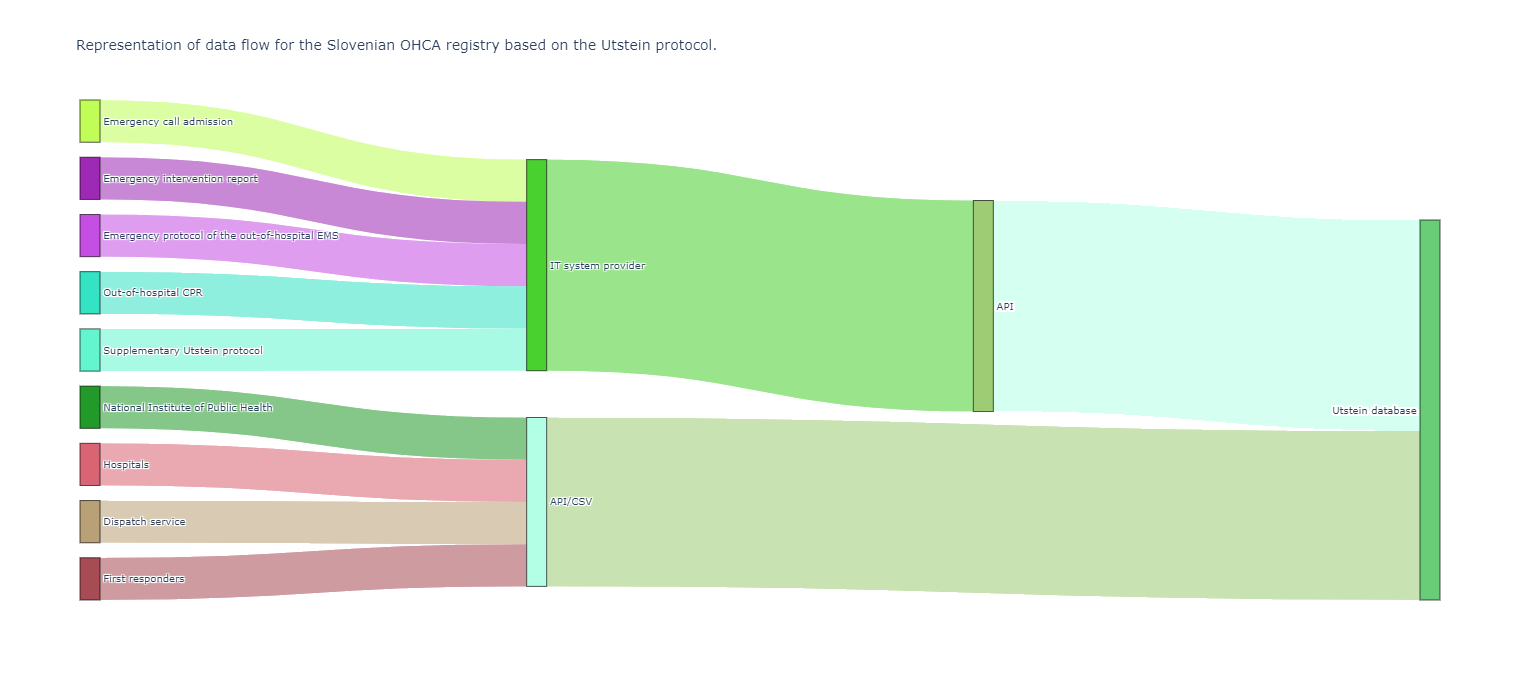
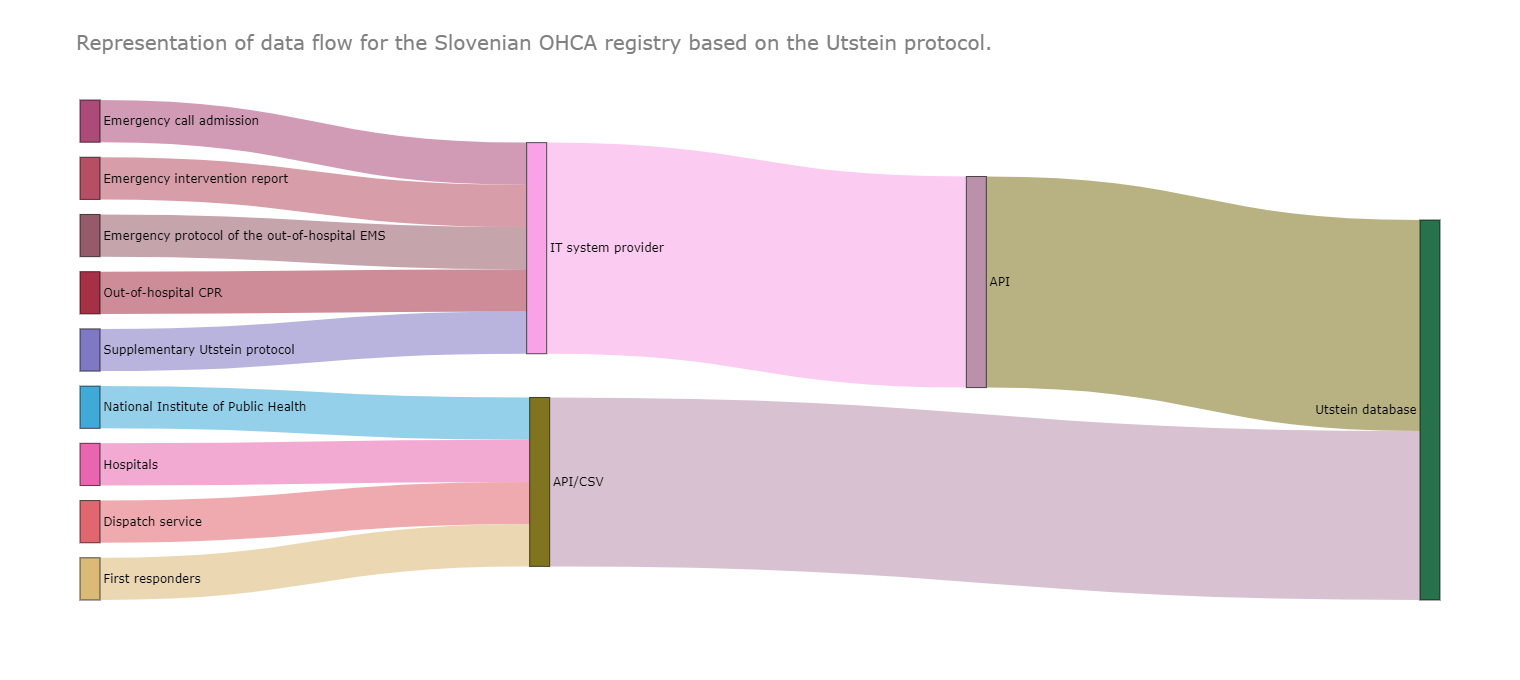
Last commits regarding data flow diagram (for now)

diff --git a/data/main_data_flow.py b/data/main_data_flow.py
@@ -18,21 +18,24 @@ comp = "IT system provider" #"Computel"
 api = "API"
 api_csv = "API/CSV"
 db = "Utstein database"
+title_text = "Representation of data flow for the Slovenian OHCA registry based on the Utstein protocol."
+
 
 # Names in Slovene
-# si = "Sprejem intervencij" #"sprejem intervencij"
-# pni = "Protokol nujne intervencije"  #"poročilo/protokol nujne intervencije"
-# pnrv = "Protokol nujnega reševalnega vozila" # "protokol nujnega reševalnega vozila"
-# ppo = "Protokol predbolnišničnega oživljanja" #"predbolnišnično oživljanje"
-# utst = "Dodatni protokol Utstein"
-# nijz = "NIJZ" #"NIJZ (v primeru smrti)"
-# hosp = "Bolnišnice" # Večinoma v obliki protokola triaže,statusa/anamneze/rezultatov diagnostike in odpustnice
-# disp = "Dispečerska služba zdravstva"
-# ppp = "Protokol prvih posredovalcev"
-# comp = "Ponudnik informacijske tehnologije" #"Computel"
-# api = "API"
-# api_csv = "API/CSV"
-# db = "Baza podatkov Utstein"
+si = "Sprejem intervencij" #"sprejem intervencij"
+pni = "Protokol nujne intervencije"  #"poročilo/protokol nujne intervencije"
+pnrv = "Protokol nujnega reševalnega vozila" # "protokol nujnega reševalnega vozila"
+ppo = "Protokol predbolnišničnega oživljanja" #"predbolnišnično oživljanje"
+utst = "Dodatni protokol Utstein"
+nijz = "NIJZ" #"NIJZ (v primeru smrti)"
+hosp = "Bolnišnice" # Večinoma v obliki protokola triaže,statusa/anamneze/rezultatov diagnostike in odpustnice
+disp = "Dispečerska služba zdravstva"
+ppp = "Protokol prvih posredovalcev"
+comp = "Ponudnik informacijske tehnologije" #"Computel"
+api = "API"
+api_csv = "API/CSV"
+db = "Baza podatkov Utstein"
+title_text = "Prikaz pretoka podatkov za Register slovenskih predbolnišničnih srčnih dogodkov v skladu s protokolom Utstein."
 
 
 def random_color_generator():
@@ -73,7 +76,10 @@ for key in connections:
     targets.append(key[1])
     values.append(connections[key])
 
+
 fig = go.Figure(data = [go.Sankey(
+    valueformat = ".0f",
+    valuesuffix = "TWh",
     node = dict(pad = 15,
             thickness = 20,
             line = dict(color="black", width = 0.5),
@@ -85,13 +91,10 @@ fig = go.Figure(data = [go.Sankey(
             #label = 'label',
             color = colors_conn))]) # 'rgb(220,220,220)'
 
-fig.update_layout(title_text="Representation of data flow for the Slovenian OHCA registry based on the Utstein protocol.", font_size=10)
-# fig.update_layout(title_text="Prikaz pretoka podatkov za Register slovenskih predbolnišničnih srčnih dogodkov v skladu s protokolom Utstein.", font_size=10)
-fig.show()
-# import plotly.io as pio
-# pio.write_image(fig, "data/images/data_flow.png", format="png")
-# fig.to_image(format="png", engine="kaleido")
-# fig.write_image("data/images/data_flow.png")
-#
+fig.update_layout(title=dict(text=title_text, font=dict(size = 20, color = 'gray')),
+font=dict(size = 12, color = 'black'),
+paper_bgcolor="rgba(0,0,0,0)",
+plot_bgcolor="rgba(0,0,0,0)")
 
-# fig.write_html("data/images/file.html")
+fig.show()
+

diff --git a/data/supplementary/data-flow.py b/data/supplementary/data-flow.py
@@ -1,11 +1,9 @@
-
+# THIS DIAGRAM WOULD REQUIRE SOME CHANGES IF WE DECIDE TO USE IT
 
 import plotly.graph_objects as go
 import csv
 import pandas as pd
 import random
-
-# ne se dotikat vrstnega reda stolpcev
 
 with open("data.csv", 'r',encoding='utf8') as csvfile:
     csvreader = csv.reader(csvfile)

diff --git a/README.md b/README.md
@@ -21,9 +21,6 @@ Data flow is for only in Slovenian for now.
 
 ![data_flow_en2](https://user-images.githubusercontent.com/42324122/159179750-65370784-fbf8-45b7-9002-d357336e8d22.png)
 
-![data_flow_en](https://user-images.githubusercontent.com/29688990/159154352-cce8fc44-b93c-486a-b77f-d8ef929aee5b.png)
-
-
 
 ## Funding
 This project is funded by University of Maribor Faculty of medicine.
